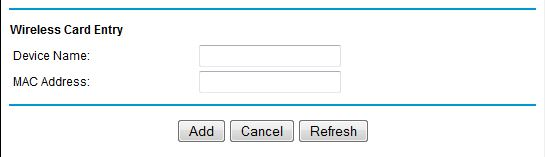
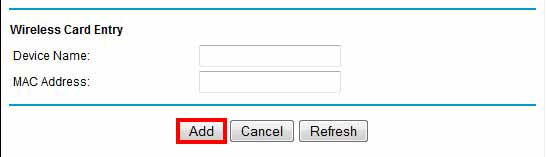
red border on buttons 2

diff --git a/IMED1316/midterm/newWIFIaddress.html b/IMED1316/midterm/newWIFIaddress.html
@@ -34,7 +34,7 @@
 					</li>
 					<li>
 				<p>Click the <strong>Add</strong> button.<br/>
-				<img src="images/accessListButtons.JPG" alt="Access List Add/Edit/Delete Buttons"/><br/></p>
+				<img src="images/accessListButtons-add.JPG" alt="Access List Add/Edit/Delete Buttons"/><br/></p>
 					</li>
 					<li>
 				<p>Fill out the <strong>Device Name</strong> and <strong>MAC Address</strong> text boxes, then click the <strong>Add</strong> button.<br/>
@@ -42,7 +42,7 @@
 					</li>
 					<li>
 				<p>Click the <strong>Apply</strong> button.<br/>
-				<img src="images/accessListButtons.JPG" alt="Access List Add/Edit/Delete Buttons"/><br/></p>
+				<img src="images/accessListButtons-apply.JPG" alt="Access List Add/Edit/Delete Buttons"/><br/></p>
 					</li>
 					<li>
 				<p>On your device connect to the <em>triangle</em> network and provide the WIFI password.</p>
